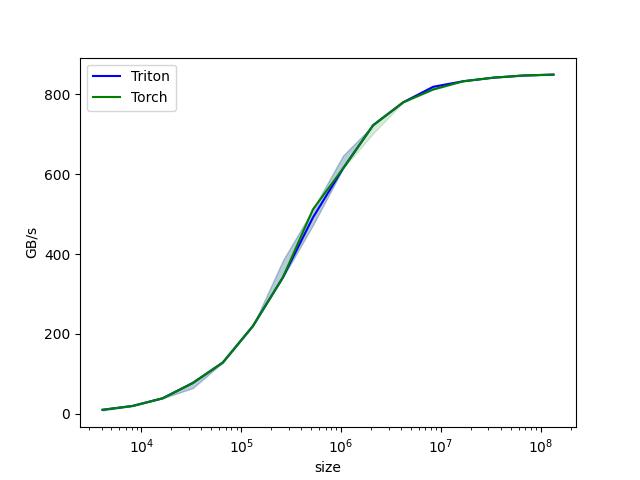
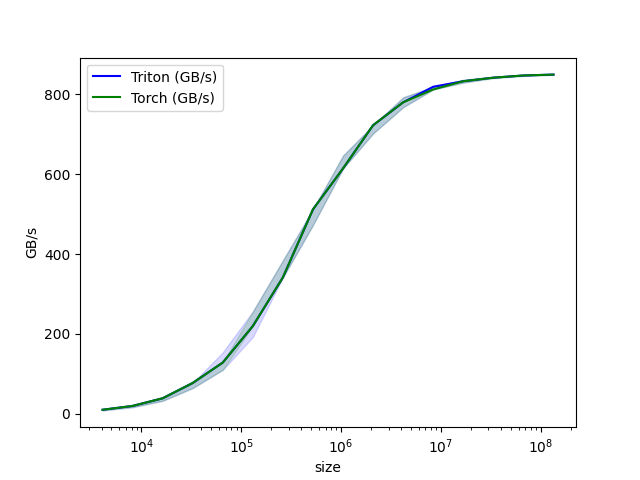
update readme, rewrite addition kernel

diff --git a/vector-add.py b/vector-add.py
@@ -1,0 +1,108 @@
+import torch
+import triton
+import triton.language as tl
+
+DEVICE = torch.device(f'cuda:{torch.cuda.current_device()}')
+
+print(DEVICE)
+
[email redacted]
+def triton_add_kernel(x_ptr, y_ptr, output_ptr, n_elements, BLOCK_SIZE: tl.constexpr):
+
+    pid = tl.program_id(axis=0)
+
+    block_start = pid * BLOCK_SIZE
+
+    offsets = block_start + tl.arange(0, BLOCK_SIZE)
+
+    mask = offsets < n_elements
+
+    x = tl.load(x_ptr + offsets, mask=mask, other=None)
+    y = tl.load(y_ptr + offsets, mask=mask)
+
+    output = x + y
+
+    tl.store(output_ptr + offsets, output, mask=mask)
+
+
+
+def add(x, y):
+    
+    assert x.is_cuda and y.is_cuda, "Input tensors must be on CUDA"
+
+    output = torch.empty_like(x)
+
+    n_elements = output.numel()
+
+    BLOCK_SIZE = 1024
+
+    grid = lambda meta: (triton.cdiv(n_elements, meta['BLOCK_SIZE']),)
+
+    triton_add_kernel[grid](x, y, output, n_elements, BLOCK_SIZE=BLOCK_SIZE)
+
+    return output
+
+
+
+def test_add_kernel(size):
+    torch.manual_seed(0)
+    x = torch.randn(size, device=DEVICE)
+    y = torch.randn(size, device=DEVICE)
+
+    # regular pytorch addition
+    output = x + y
+
+    # triton addition
+    output_triton = add(x, y)
+
+    # compare triton and pytorch
+    torch.testing.assert_close(output, output_triton, rtol=1e-5, atol=1e-5)
+    print("Test passed!")
+
+
[email redacted]_report(
+    triton.testing.Benchmark(
+        x_names=['size'], # argument names to use as an x-axis for the plot
+        x_vals=[2**i for i in range(12, 28, 1)], # different values of x_names to benchmark
+        x_log = True, # makes x-axis logarithmic
+        line_arg='provider', # title of the legend 
+        line_vals=['triton', 'torch'], # designators of the different entries in the legend
+        line_names=['Triton', 'Torch'], # names to visibly go in the legend
+        styles=[('blue', '-'), ('green', '-')], # triton will be blue; pytorch will be green
+        ylabel='GB/s', # label name for y-axis
+        plot_name='vector-add-performance', # also used as file name for saving plot
+        args={}, # we'll see how this is used in a later tutorial; need it even if it's empty
+    )
+)
+
+def benchmark(size, provider):
+    # creating our input data
+    x = torch.rand(size, device=DEVICE, dtype=torch.float32)
+    y = torch.rand(size, device=DEVICE, dtype=torch.float32)
+    # each benchmark runs multiple times and quantiles tells matplotlib what confidence intervals to plot
+    quantiles = [0.5, 0.05, 0.95]
+    # defining which function this benchmark instance runs
+    if provider == 'torch':
+        ms, min_ms, max_ms = triton.testing.do_bench(lambda: x + y, quantiles=quantiles)
+    if provider == 'triton':
+        ms, min_ms, max_ms = triton.testing.do_bench(lambda: add(x, y), quantiles=quantiles)
+    # turning the raw millisecond measurement into meaninful units
+    gbps = lambda ms: 3 * x.numel() * x.element_size() * 1e-9 / (ms * 1e-3)
+        # 3 = number of memory operations (2 reads + 1 write)
+        # x.numel() = number of elements
+        # x.element_size() = bytes per element (4 for float32, 2 for float16)
+        # 1e-9 converts bytes to GB
+        # 1e-3 converts milliseconds to seconds
+    return gbps(ms), gbps(max_ms), gbps(min_ms)
+
+
+if __name__ == "__main__":
+    test_add_kernel(size=1024)
+    test_add_kernel(size=2048)
+    test_add_kernel(size=4096)
+    test_add_kernel(size=259)
+
+    # Only run benchmark if explicitly requested
+    import sys
+    if len(sys.argv) > 1 and sys.argv[1] == "--benchmark":
+        benchmark.run(save_path='.', print_data=True)

diff --git a/README.md b/README.md
@@ -10,17 +10,16 @@ Triton is a language for writing efficient CUDA kernels in Python without dealin
 
 ## Contents
 
-- `add.py` - Vector addition kernel (starter example)
-- `benchmarking.py` - Performance measurement utilities
+- `vector-add.py` - Vector addition kernel (starter example)
 
 ## Quick Start
 
 ```bash
 # Install Triton
-pip install triton
+pip install triton numpy pandas matplotlib torch
 
 # Run vector addition example
-python3 add.py
+python3 vector-add.py
 ```
 
 ## Resources